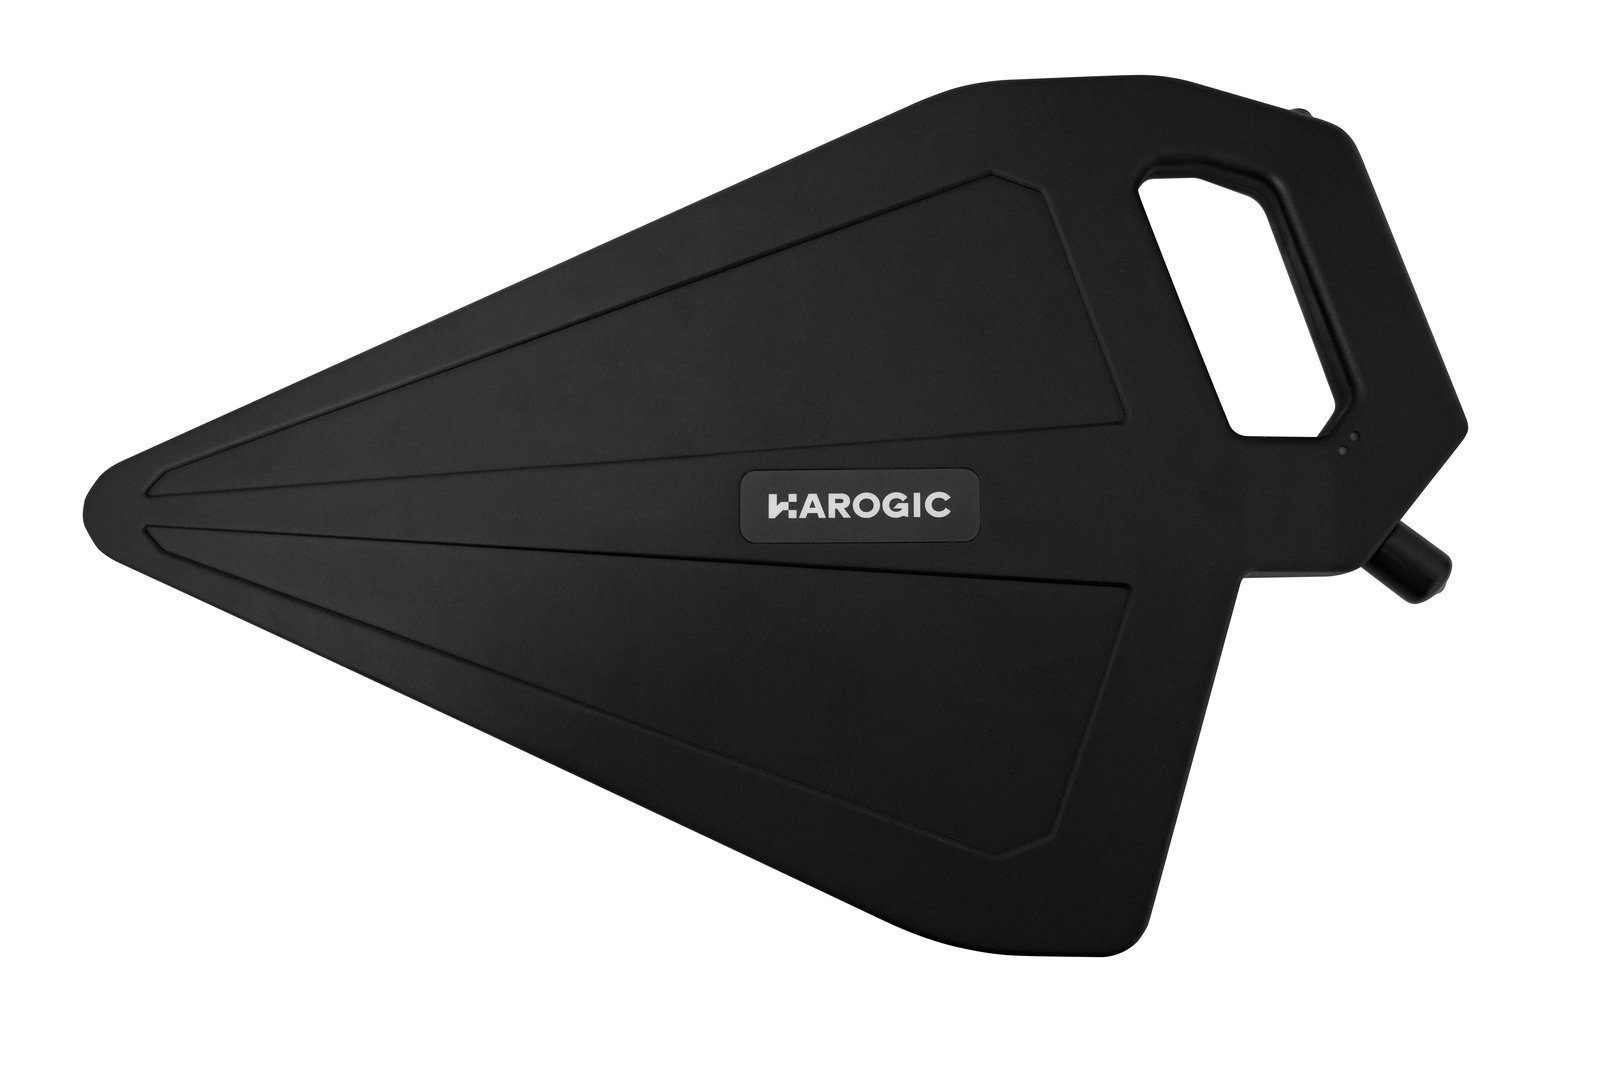
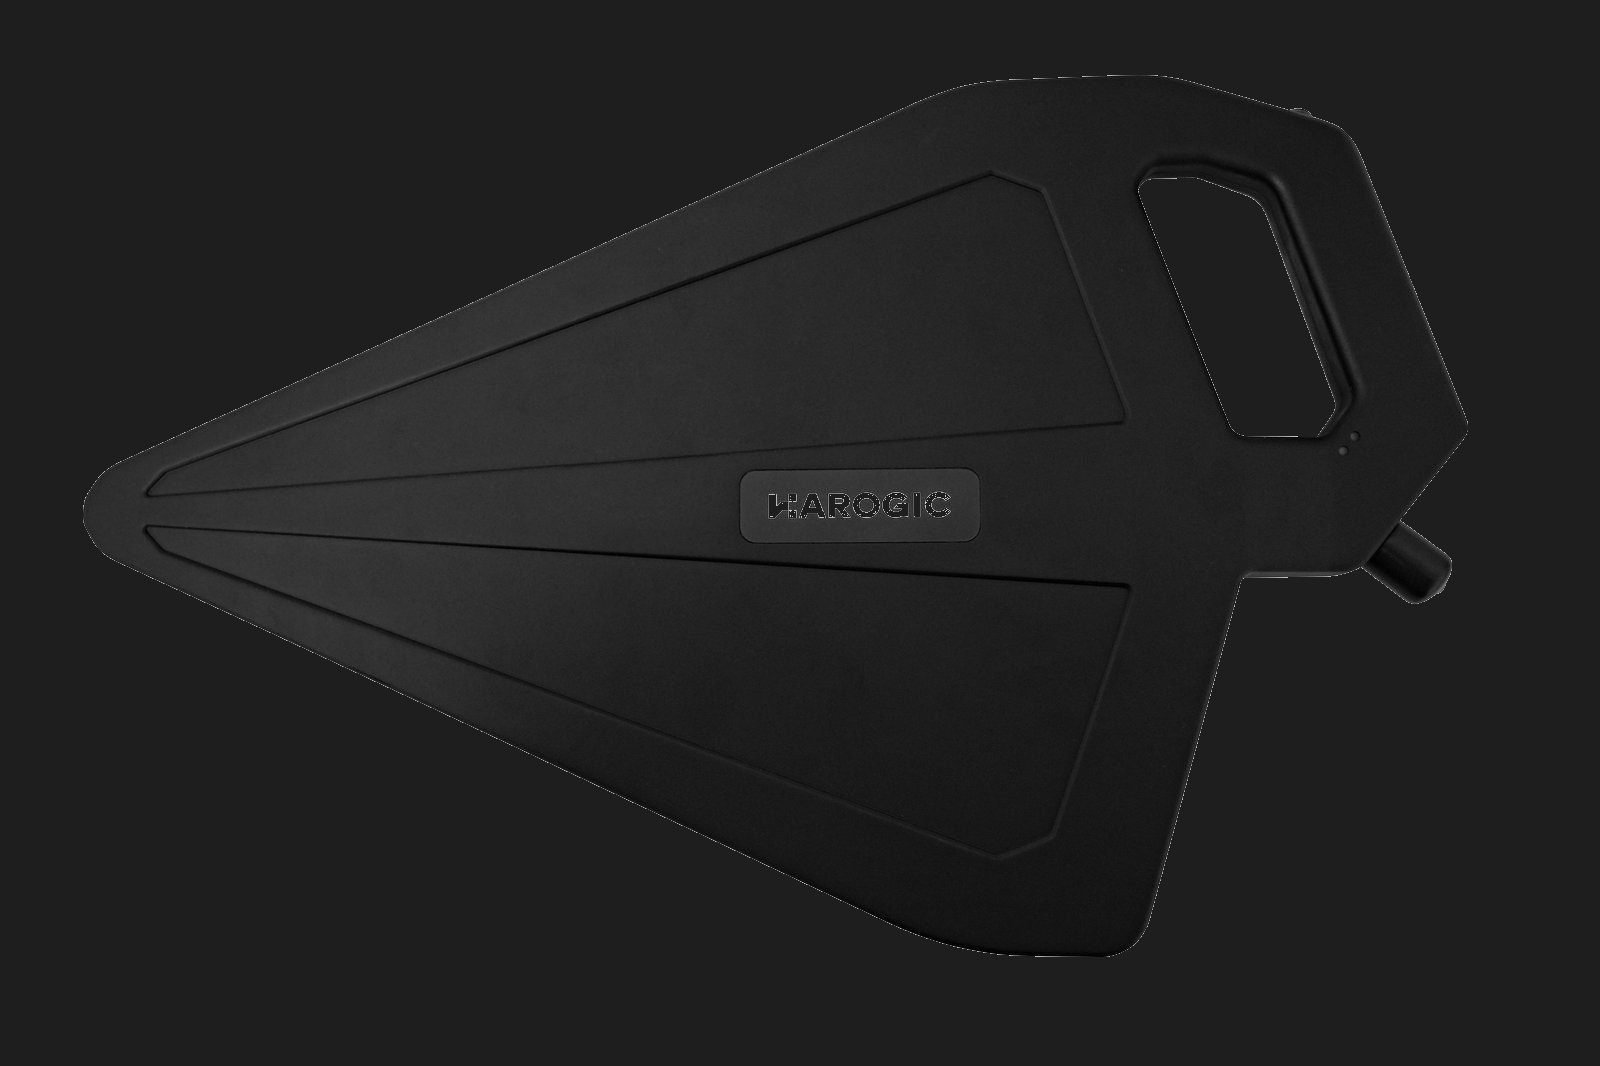
fix: darken white pixels in HDA antenna image for dark mode compatibility

diff --git a/product-hda.html b/product-hda.html
@@ -34,17 +34,6 @@
       body {
         font-family: "Inter", "Helvetica Neue", Helvetica, Arial, sans-serif;
       }
-      /* Fix white background on HDA antenna JPG images in dark mode */
-      .product-hero-right img,
-      .gallery-main img,
-      .gallery-thumb img {
-        mix-blend-mode: multiply;
-      }
-      html.light-theme .product-hero-right img,
-      html.light-theme .gallery-main img,
-      html.light-theme .gallery-thumb img {
-        mix-blend-mode: normal;
-      }
     </style>
     <script
       src="https://code.jquery.com/jquery-3.7.1.min.js"